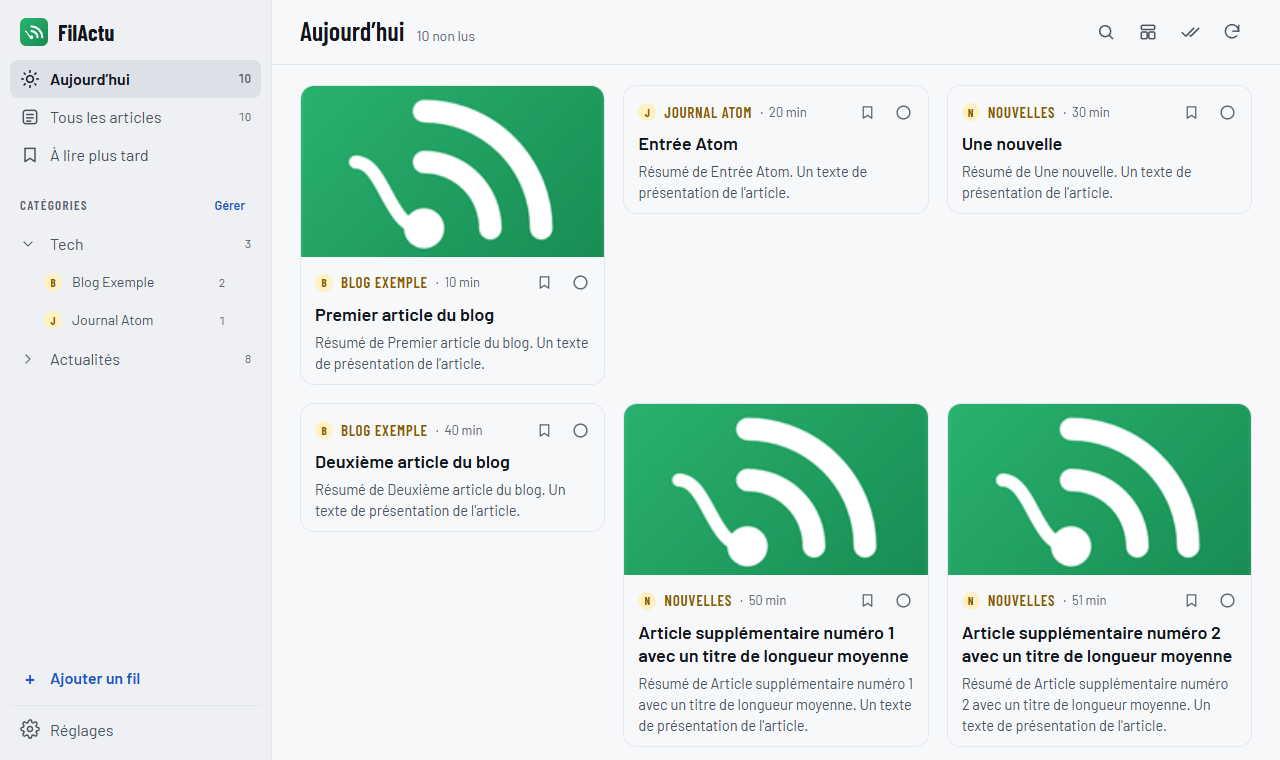
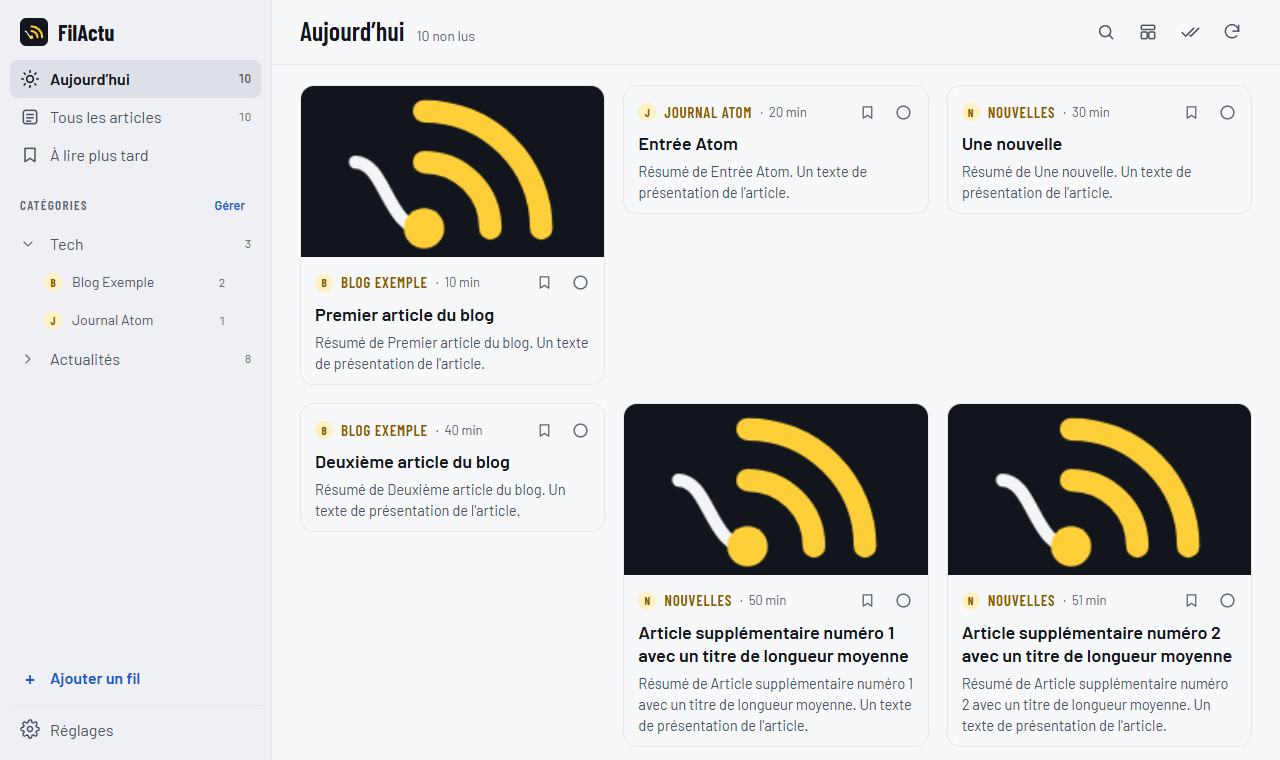
FilActu 1.3.0 : icône « tableau », thème du téléphone suivi dans l'appli Android 1.1.0
- EXG-083 : nouvelle icône (encre, fil clair, ondes jaune signal) partout ; barre du navigateur aux couleurs du fond affiché.
- EXG-084 : l'appli Android annonce au site le thème du téléphone et bascule avec lui (thème clair par défaut, values-night en sombre).

Changed region(s): [[0.4688, 0.5145, 1.0, 0.7566], [0.2188, 0.0908, 0.4688, 0.3632], [0.0, 0.0, 0.0625, 0.0605]]

diff --git a/tests/unit/v13.test.ts b/tests/unit/v13.test.ts
@@ -1,0 +1,60 @@
+import { readdirSync, readFileSync, statSync } from 'node:fs';
+import { join } from 'node:path';
+import { fileURLToPath } from 'node:url';
+import { describe, expect, test } from 'vitest';
+
+const root = fileURLToPath(new URL('../../', import.meta.url));
+const read = (p: string) => readFileSync(join(root, p), 'utf8');
+const res = 'android/app/src/main/res';
+
+function files(dir: string, ext: RegExp): string[] {
+  return readdirSync(join(root, dir)).flatMap((f) => {
+    const p = `${dir}/${f}`;
+    return statSync(join(root, p)).isDirectory() ? files(p, ext) : ext.test(f) ? [p] : [];
+  });
+}
+
+describe('V1.3 — icône et thème sur Android', () => {
+  test('EXG-083 · le logo et les couleurs de l’appli reprennent l’identité « tableau », sans l’ancien vert', () => {
+    const OLD_GREEN = /#(1E9E5F|2BB673|16884F|16a34a)\b/i;
+    const sources = [
+      'index.html', 'public/manifest.webmanifest', 'src/ui/icons.tsx', 'src/styles.css',
+      ...files('assets', /\.svg$/), ...files('public/icons', /\.svg$/), ...files(res, /\.xml$/),
+    ];
+    for (const f of sources) expect(read(f), f).not.toMatch(OLD_GREEN);
+
+    // Même dessin partout : fond encre, ondes en jaune signal
+    for (const f of ['assets/logo.svg', 'public/icons/logo.svg', 'assets/logo-maskable.svg', 'src/ui/icons.tsx']) {
+      expect(read(f), f).toMatch(/#12161c/i);
+      expect(read(f), f).toMatch(/#ffcf3a/i);
+    }
+    expect(read('assets/logo.svg')).toBe(read('public/icons/logo.svg'));
+    expect(JSON.parse(read('public/manifest.webmanifest')).theme_color).toBe('#12161c');
+    // Fond de l'icône adaptative Android : encre
+    expect(read(`${res}/mipmap-anydpi-v26/ic_launcher.xml`)).toMatch(/@color\/filactu_ink/);
+    expect(read(`${res}/values/colors.xml`)).toMatch(/name="filactu_ink">#12161C</i);
+  });
+
+  test('EXG-084 · l’appli Android annonce au site le thème du téléphone et bascule avec lui', () => {
+    // Le site lit le thème via le thème Android de l'appli (attribut isLightTheme) : clair par défaut, sombre la nuit
+    const day = read(`${res}/values/themes.xml`);
+    const night = read(`${res}/values-night/themes.xml`);
+    expect(day).toMatch(/parent="android:Theme\.Material\.Light\.NoActionBar"/);
+    expect(night).toMatch(/parent="android:Theme\.Material\.NoActionBar"/);
+    // Icônes des barres système lisibles : foncées sur fond clair, claires sur fond sombre
+    expect(day).toMatch(/windowLightStatusBar">true/);
+    expect(day).toMatch(/windowLightNavigationBar">true/);
+    expect(night).toMatch(/windowLightStatusBar">false/);
+    // Fond derrière les barres : celui de l'appli dans chaque thème
+    expect(read(`${res}/values/colors.xml`)).toMatch(/name="filactu_bg">#F7F8FA</i);
+    expect(read(`${res}/values-night/colors.xml`)).toMatch(/name="filactu_bg">#12161C</i);
+    expect(read('android/app/src/main/java/fr/yvan/filactu/MainActivity.java')).toMatch(/R\.color\.filactu_bg/);
+    // Changer de thème recrée l'écran (l'appli ne garde pas l'ancien thème)
+    const configChanges = /android:configChanges="([^"]*)"/.exec(read('android/app/src/main/AndroidManifest.xml'))![1];
+    expect(configChanges.split('|')).not.toContain('uiMode');
+    // Nouvelle version de l'APK à installer
+    const gradle = read('android/app/build.gradle.kts');
+    expect(Number(/versionCode = (\d+)/.exec(gradle)![1])).toBeGreaterThanOrEqual(2);
+    expect(gradle).toMatch(/versionName = "1\.1\.0"/);
+  });
+});

diff --git a/tests/e2e/v13.spec.ts b/tests/e2e/v13.spec.ts
@@ -1,0 +1,40 @@
+import { expect, test, type Page } from '@playwright/test';
+import { openNav, startWithData } from './helpers';
+
+const themeColor = (page: Page) => page.evaluate(() => {
+  const metas = [...document.querySelectorAll<HTMLMetaElement>('meta[name="theme-color"]')];
+  const active = metas.find((m) => !m.media || matchMedia(m.media).matches);
+  return active?.content.toLowerCase();
+});
+
+test('EXG-083 · icône « tableau » et barre du navigateur aux couleurs du thème affiché', async ({ page }, info) => {
+  test.skip(info.project.name !== 'telephone', 'une seule vérification suffit');
+  await page.emulateMedia({ colorScheme: 'light' });
+  await startWithData(page);
+
+  // L'icône installée : fond encre, ondes en jaune signal
+  const px = await page.evaluate(async () => {
+    const img = new Image();
+    img.src = 'icons/icon-512.png';
+    await img.decode();
+    const c = document.createElement('canvas');
+    c.width = c.height = 512;
+    const g = c.getContext('2d')!;
+    g.drawImage(img, 0, 0);
+    const at = (x: number, y: number) => [...g.getImageData(x, y, 1, 1).data.slice(0, 3)];
+    return { fond: at(256, 40), point: at(208, 352) };
+  });
+  expect(px.fond).toEqual([0x12, 0x16, 0x1c]);
+  expect(px.point).toEqual([0xff, 0xcf, 0x3a]);
+
+  // Barre du navigateur : suit le thème du système…
+  expect(await themeColor(page)).toBe('#f7f8fa');
+  await page.emulateMedia({ colorScheme: 'dark' });
+  expect(await themeColor(page)).toBe('#12161c');
+
+  // … ou celui choisi dans Réglages
+  await openNav(page);
+  await page.getByRole('button', { name: 'Réglages' }).click();
+  await page.getByLabel('Thème').selectOption('light');
+  await expect.poll(() => themeColor(page)).toBe('#f7f8fa');
+});

diff --git a/src/ui/icons.tsx b/src/ui/icons.tsx
@@ -30,18 +30,13 @@ export const IconCheckCircle = (p: P) => base([<circle cx="12" cy="12" r="8" />,
 
 export const Logo = ({ size = 28 }: { size?: number }) => (
   <svg viewBox="0 0 512 512" width={size} height={size} aria-hidden="true">
-    <defs>
-      <linearGradient id="lg" x1="0" y1="0" x2="1" y2="1">
-        <stop offset="0" stop-color="#2BB673" />
-        <stop offset="1" stop-color="#16884F" />
-      </linearGradient>
-    </defs>
-    <rect width="512" height="512" rx="112" fill="url(#lg)" />
-    <g fill="none" stroke="#fff" stroke-linecap="round" transform="translate(30 4)">
-      <path d="M62 236 C 112 236 118 352 178 348" stroke-width="22" />
-      <path d="M178 236 A112 112 0 0 1 290 348" stroke-width="38" />
-      <path d="M178 150 A198 198 0 0 1 376 348" stroke-width="38" />
+    {/* Identité « tableau » (EXG-083) : fond encre, fil clair, ondes en jaune signal */}
+    <rect width="512" height="512" rx="112" fill="#12161c" />
+    <g fill="none" stroke-linecap="round" transform="translate(30 4)">
+      <path d="M62 236 C 112 236 118 352 178 348" stroke="#f4f5f7" stroke-width="22" />
+      <path d="M178 236 A112 112 0 0 1 290 348" stroke="#ffcf3a" stroke-width="38" />
+      <path d="M178 150 A198 198 0 0 1 376 348" stroke="#ffcf3a" stroke-width="38" />
     </g>
-    <circle cx="208" cy="352" r="34" fill="#fff" />
+    <circle cx="208" cy="352" r="34" fill="#ffcf3a" />
   </svg>
 );

diff --git a/index.html b/index.html
@@ -6,7 +6,9 @@
     <meta http-equiv="Content-Security-Policy"
       content="default-src 'self'; script-src 'self'; style-src 'self' 'unsafe-inline'; img-src 'self' https: data: blob:; connect-src 'self' https://api.github.com ws:; manifest-src 'self'; worker-src 'self'; base-uri 'none'; form-action 'none'; object-src 'none'" />
     <meta name="referrer" content="no-referrer" />
-    <meta name="theme-color" content="#1E9E5F" />
+    <!-- Barre du navigateur aux couleurs du fond affiché (EXG-083) ; App.tsx les ajuste si le thème est forcé -->
+    <meta name="theme-color" media="(prefers-color-scheme: light)" content="#f7f8fa" />
+    <meta name="theme-color" media="(prefers-color-scheme: dark)" content="#12161c" />
     <meta name="description" content="FilActu, lecteur de fils RSS personnel" />
     <title>FilActu</title>
     <link rel="manifest" href="manifest.webmanifest" />

diff --git a/src/ui/App.tsx b/src/ui/App.tsx
@@ -62,6 +62,11 @@ export function App({ store }: { store: Store }) {
   useEffect(() => {
     if (theme === 'light' || theme === 'dark') document.documentElement.dataset.theme = theme;
     else delete document.documentElement.dataset.theme;
+    // Barre du navigateur : couleur du fond affiché, y compris quand le thème est forcé (EXG-083)
+    for (const meta of document.querySelectorAll<HTMLMetaElement>('meta[name="theme-color"][media]')) {
+      const dark = theme === 'auto' ? meta.media.includes('dark') : theme === 'dark';
+      meta.content = dark ? '#12161c' : '#f7f8fa';
+    }
   }, [theme]);
   if (s.phase === 'boot') return <div class="boot" aria-busy="true"><Logo size={56} /></div>;
   if (s.phase === 'setup') return <Setup store={store} state={s} />;

diff --git a/public/sw.js b/public/sw.js
@@ -1,6 +1,6 @@
 // Service worker FilActu : coquille de l'appli disponible hors connexion (EXG-003, EXG-074).
 // Les données (api.github.com) ne passent jamais par ce cache.
-const CACHE = 'filactu-shell-v2';
+const CACHE = 'filactu-shell-v3'; // v3 : nouvelle icône (EXG-083)
 const SHELL = ['./', './index.html', './manifest.webmanifest', './icons/icon-192.png', './icons/logo.svg'];
 
 self.addEventListener('install', (event) => {

diff --git a/android/app/src/main/java/fr/yvan/filactu/MainActivity.java b/android/app/src/main/java/fr/yvan/filactu/MainActivity.java
@@ -34,7 +34,7 @@ public class MainActivity extends Activity {
         super.onCreate(savedInstanceState);
 
         FrameLayout root = new FrameLayout(this);
-        root.setBackgroundColor(getColor(R.color.filactu_green));
+        root.setBackgroundColor(getColor(R.color.filactu_bg));
         web = new WebView(this);
         root.addView(web, new FrameLayout.LayoutParams(
                 FrameLayout.LayoutParams.MATCH_PARENT, FrameLayout.LayoutParams.MATCH_PARENT));

diff --git a/docs/GUIDE-UTILISATEUR.md b/docs/GUIDE-UTILISATEUR.md
@@ -40,8 +40,8 @@ Tant que ce secret n'existe pas, le robot ne fait rien (sans erreur).
 
 ### 2.4 Installer l'appli
 
-- **Android (recommandé) : l'appli FilActu.** Téléchargez le fichier **FilActu-x.y.z.apk** depuis la page <https://github.com/yvandantec/filactu/releases> (rubrique *Assets*), ouvrez-le et acceptez l'installation (Android demande d'autoriser une fois l'installation depuis le navigateur ou l'application Fichiers). Avec cette appli, **chaque article s'ouvre directement dans votre navigateur par défaut** (Brave, Firefox…), dans un nouvel onglet, sans onglet intégré ni menu de choix. Le contenu de FilActu se met à jour tout seul ; l'APK ne se réinstalle que si une nouvelle version d'appli est annoncée. Si vous aviez installé FilActu via Chrome, supprimez cette ancienne icône.
-- **Android, autre possibilité** : ouvrez l'adresse dans Chrome → menu ⋮ → **Installer l'application** (ou « Ajouter à l'écran d'accueil »). L'icône verte FilActu apparaît avec vos autres applis.
+- **Android (recommandé) : l'appli FilActu.** Téléchargez le fichier **FilActu-x.y.z.apk** depuis la page <https://github.com/yvandantec/filactu/releases> (rubrique *Assets*), ouvrez-le et acceptez l'installation (Android demande d'autoriser une fois l'installation depuis le navigateur ou l'application Fichiers). Avec cette appli, **chaque article s'ouvre directement dans votre navigateur par défaut** (Brave, Firefox…), dans un nouvel onglet, sans onglet intégré ni menu de choix. Le contenu de FilActu se met à jour tout seul ; l'APK ne se réinstalle que si une nouvelle version d'appli est annoncée. Pour la mettre à jour, téléchargez la nouvelle APK et ouvrez-la : elle s'installe par-dessus l'ancienne, sans perdre vos réglages. La version 1.1.0 de l'appli apporte la nouvelle icône et le thème qui suit le téléphone. Si vous aviez installé FilActu via Chrome, supprimez cette ancienne icône.
+- **Android, autre possibilité** : ouvrez l'adresse dans Chrome → menu ⋮ → **Installer l'application** (ou « Ajouter à l'écran d'accueil »). L'icône FilActu (carré noir, ondes jaunes) apparaît avec vos autres applis.
 - **PC** : dans Chrome ou Edge, cliquez l'icône d'installation à droite de la barre d'adresse. Vous pouvez aussi simplement garder l'onglet ouvert.
 
 Répétez l'étape 2.3 sur chaque appareil : la clé est saisie une fois par appareil.
@@ -163,7 +163,7 @@ Tout se fait au clavier : `Tab` passe d'un bouton à l'autre (un contour vert mo
 
 | Réglage | Effet |
 |---|---|
-| Thème | Automatique (comme le téléphone ou le PC), clair ou sombre. Le thème sombre est le « tableau » : fond noir, sources en jaune. |
+| Thème | Automatique (comme le téléphone ou le PC), clair ou sombre. Le thème sombre est le « tableau » : fond noir, sources en jaune. Quand le téléphone passe du clair au sombre, FilActu suit aussitôt. |
 | Taille du texte des articles | Petit, Normal ou Grand (réglée séparément pour le PC et le téléphone) |
 | Ouvrir les articles avec *(Android seulement)* | Navigateur qui ouvre les articles : Brave, Firefox, Edge, Samsung Internet ou Chrome. *Automatique* garde l'onglet intégré de Chrome. |
 | Marquer comme lu en défilant | Activé par défaut |
@@ -183,6 +183,8 @@ Tout se fait au clavier : `Tab` passe d'un bouton à l'autre (un contour vert mo
 **« Clé refusée » ou « droit manquant ».** La clé a expiré ou il lui manque un droit : refaites les § 2.1 et 2.2, puis Réglages → *Déconnecter cet appareil* et saisissez la nouvelle clé.
 
 **Les articles s'ouvrent dans un onglet intégré de Chrome au lieu de mon navigateur (Brave…).** C'est le comportement normal d'une appli installée par Chrome. Dans Réglages → *Ouvrir les articles avec*, choisissez votre navigateur : les articles s'y ouvriront directement. Si Android affiche à chaque fois un menu « Ouverture avec », choisissez plutôt **Brave — méthode 2 (sans menu de choix)**. Si ce menu persiste encore, c'est Chrome qui l'impose : il suffit alors de toucher Brave.
+
+**Dans l'appli Android, FilActu reste en sombre alors que le téléphone est en clair (ou l'icône est encore verte).** Vous avez l'ancienne version de l'appli (1.0.0). Installez la version 1.1.0 ou plus récente (voir *Installer l'appli*) : elle suit le thème du téléphone et porte la nouvelle icône. En attendant, Réglages → *Thème* → *Clair* force le thème clair.
 
 **Android dit « appli déjà installée » puis « impossible de lancer l'application ».** Une installation précédente a échoué à moitié. Le plus efficace est de **vider le cache de Chrome** (Paramètres du téléphone → Applications → Chrome → Stockage → *Vider le cache*), puis de réinstaller. Sinon, dans l'ordre :
 1. Paramètres du téléphone → Applications : si « FilActu » apparaît, désinstallez-la. Supprimez aussi toute icône FilActu de l'écran d'accueil.

diff --git a/docs/TRACABILITE.md b/docs/TRACABILITE.md
@@ -1,6 +1,6 @@
 # Matrice de traçabilité
 
-> Générée par `npm run trace` — lots livrés : V0.1, V0.1.2, V0.1.3, V0.2, V0.3, V0.3.1, V0.3.2, V0.3.4, V0.4, V0.4.1, V0.4.2, V1.0, V1.0.1, V1.1, V1.2. Ne pas modifier à la main.
+> Générée par `npm run trace` — lots livrés : V0.1, V0.1.2, V0.1.3, V0.2, V0.3, V0.3.1, V0.3.2, V0.3.4, V0.4, V0.4.1, V0.4.2, V1.0, V1.0.1, V1.1, V1.2, V1.3. Ne pas modifier à la main.
 
 | Exigence | Lot livré | Tests | Statut |
 |---|---|---|---|
@@ -8,6 +8,7 @@
 | **EXG-002** La clé est mémorisée sur l'appareil et peut être effacée depuis les réglages (« Déconnecter cet appareil »). | oui | 1 | ✅ couverte |
 | **EXG-004** Appli Android à installer (APK) qui affiche FilActu et ouvre chaque article directement dans le navigateur par défaut du téléphone (Brave…), sans onglet intégré ni menu de choix. | oui | 2 | ✅ couverte |
 | **EXG-003** L'appli s'installe sur Android (téléphone et tablette) et sur PC (Chrome/Edge). | oui | 1 | ✅ couverte |
+| **EXG-083** L'icône de l'appli reprend l'identité « tableau » (DESIGN.md) : fond encre, fil clair, ondes en jaune signal ; plus aucune trace de l'ancien vert. | oui | 2 | ✅ couverte |
 | **EXG-010** Importer un fichier OPML (export Feedly). | oui | 5 | ✅ couverte |
 | **EXG-011** Ajouter un abonnement par URL de fil ou de site, avec un nom facultatif, et le ranger dans une catégorie existante ou nouvelle. | oui | 9 | ✅ couverte |
 | **EXG-012** Renommer, déplacer (changer de catégorie), désabonner un fil. | oui | 6 | ✅ couverte |
@@ -45,6 +46,7 @@
 | **EXG-051** Les articles mis de côté sont conservés sans limite de durée, même après la purge des 30 jours. | oui | 2 | ✅ couverte |
 | **EXG-060** Rechercher dans les titres et résumés des articles conservés (30 jours + à lire plus tard), dans la vue courante ou partout. | oui | 3 | ✅ couverte |
 | **EXG-061** Thème clair, sombre ou automatique (suit le système). | oui | 2 | ✅ couverte |
+| **EXG-084** Dans l'appli Android, le thème « Automatique » suit le réglage clair ou sombre du téléphone. | oui | 1 | ✅ couverte |
 | **EXG-062** Raccourcis clavier sur PC : `j`/`k` article suivant/précédent, `o` ou `Entrée` ouvrir, `m` lu/non lu, `s` à lire plus tard, `Maj+A` tout marquer lu, `r` actualiser, `/` rechercher, `v` changer d'affichage, `g a` Tous, `g t` Aujourd'hui, `?` aide. | oui | 1 | ✅ couverte |
 | **EXG-063** Une recherche porte aussi sur les articles déjà lus. | oui | 2 | ✅ couverte |
 | **EXG-070** Le collecteur récupère tous les fils actifs toutes les 15 minutes. | oui | 10 | ✅ couverte |
@@ -382,3 +384,10 @@
 
 ### EXG-082
 - tests/e2e/v11.spec.ts › EXG-082 · le bandeau « articles pas à jour » est en langage courant et se ferme
+
+### EXG-083
+- tests/e2e/v13.spec.ts › EXG-083 · icône « tableau » et barre du navigateur aux couleurs du thème affiché
+- tests/unit/v13.test.ts › EXG-083 · le logo et les couleurs de l’appli reprennent l’identité « tableau », sans l’ancien vert
+
+### EXG-084
+- tests/unit/v13.test.ts › EXG-084 · l’appli Android annonce au site le thème du téléphone et bascule avec lui

diff --git a/CHANGELOG.md b/CHANGELOG.md
@@ -2,6 +2,15 @@
 
 Format inspiré de [Keep a Changelog](https://keepachangelog.com/fr/1.1.0/).
 
+## [1.3.0] — 2026-11-06 — Icône et thème sur Android
+
+### Modifié
+- Nouvelle icône aux couleurs « tableau » : carré encre, fil clair, ondes et point en jaune signal. Elle remplace l'ancien carré vert partout : écran d'accueil, onglet du navigateur, logo du volet et de l'écran de connexion (EXG-083).
+- La barre du navigateur prend la couleur du fond affiché (clair ou encre), y compris quand le thème est forcé dans Réglages (EXG-083).
+
+### Corrigé
+- Appli Android 1.1.0 : le thème « Automatique » suit enfin le téléphone. L'appli annonçait toujours un thème sombre au site ; elle annonce désormais le thème du téléphone et bascule dès qu'il change. Les barres du haut et du bas prennent la couleur du fond, avec des icônes lisibles (EXG-084). **Installer la nouvelle APK** (`FilActu-1.1.0.apk`).
+
 ## [1.2.2] — 2026-11-06
 
 ### Corrigé
